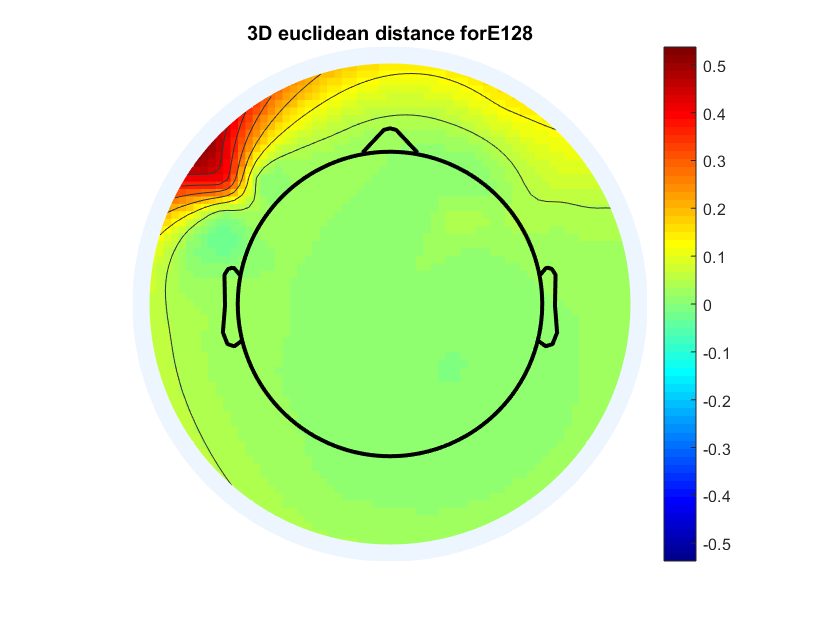
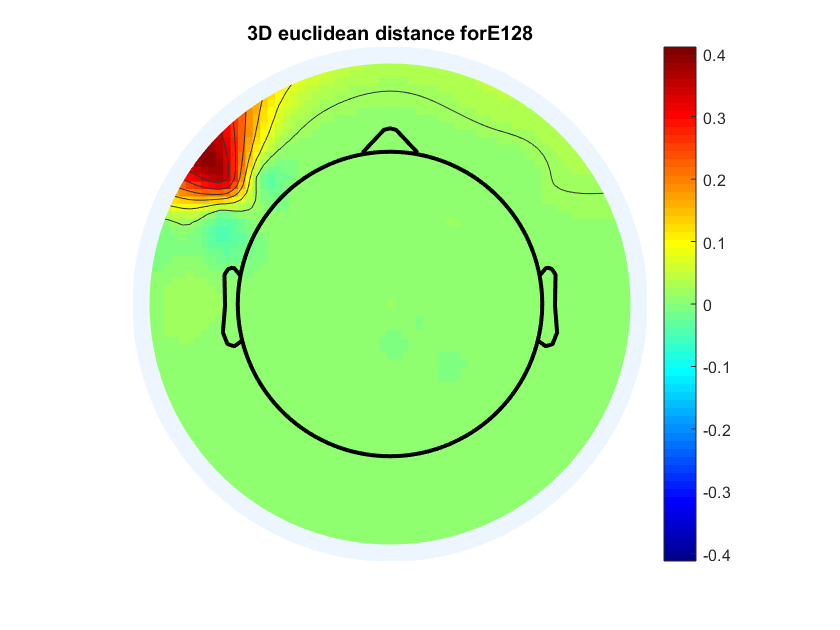
make weight for spatially next to each other element (grid)

diff --git a/Moran's I Spatial Weights Calculation for EEG/experiment_3_spatial_decay_for_equidistant_matrix.m b/Moran's I Spatial Weights Calculation for EEG/experiment_3_spatial_decay_for_equidistant_matrix.m
@@ -1,28 +1,34 @@
-%% Spatial Weights Matrix Calculation
-% Here we will use euclidian spatial decay to create our weight matrix
-% To start we will calcualte it on one eeg location file
+%% Equidistant matrix
+% This code is used to work with a square instead of a EEG head
 
-%% Load the data
-data = load('EEG_info_WSAS15.mat');
-channel_location = data.EEG_info.chanlocs;
+%% Variable initalization
+number_square = 10; % This you can modify
+X = 1:number_square;
+Y = 1:number_square;
+number_channels = number_square*number_square;
+weight_matrix = zeros(number_channels,number_channels);
+channel_location = [];
 
-%% Init the weight matrix
-num_channels = length(channel_location);
-weight_matrix = zeros(num_channels,num_channels);
+for i = 1:number_square
+    for j = 1:number_square        
+        location = struct();
+        location.X = X(i);
+        location.Y = Y(j);
+        channel_location = [channel_location, location];
+    end
+end
 
 %% Populating the Weights matrix
-for i = 1:num_channels
-    first_point = [channel_location(i).X, channel_location(i).Y, channel_location(i).Z];
-    for j = 1:num_channels
-        second_point = [channel_location(j).X, channel_location(j).Y, channel_location(j).Z];
+for i = 1:number_channels
+    first_point = [channel_location(i).X, channel_location(i).Y];
+    for j = 1:number_channels
+        second_point = [channel_location(j).X, channel_location(j).Y];
         weight_matrix(i,j) = euclidean_distance(first_point,second_point);
     end
 end
 
-%% Normalization with min max
+%% Normalization
 weight_matrix = min_max_normalization(weight_matrix); % This give use normalized distance
-
-
 
 %% Helper functions
 function distance = euclidean_distance(first_point, second_point)

diff --git a/Moran's I Spatial Weights Calculation for EEG/experiment_2_topographic_map_values.m b/Moran's I Spatial Weights Calculation for EEG/experiment_2_topographic_map_values.m
@@ -1,0 +1,8 @@
+%% Script to check how to modify the return grid_or_val to increase its size
+% Conclusion: its gridscale
+i = 10;
+
+figure; 
+title(strcat('3D euclidean distance for  ', channel_location(i).labels)); 
+[h grid_or_val plotrad_or_grid, xmesh, ymesh] = topoplot(weight_matrix(i,:), channel_location,'gridscale',129); 
+colorbar;
